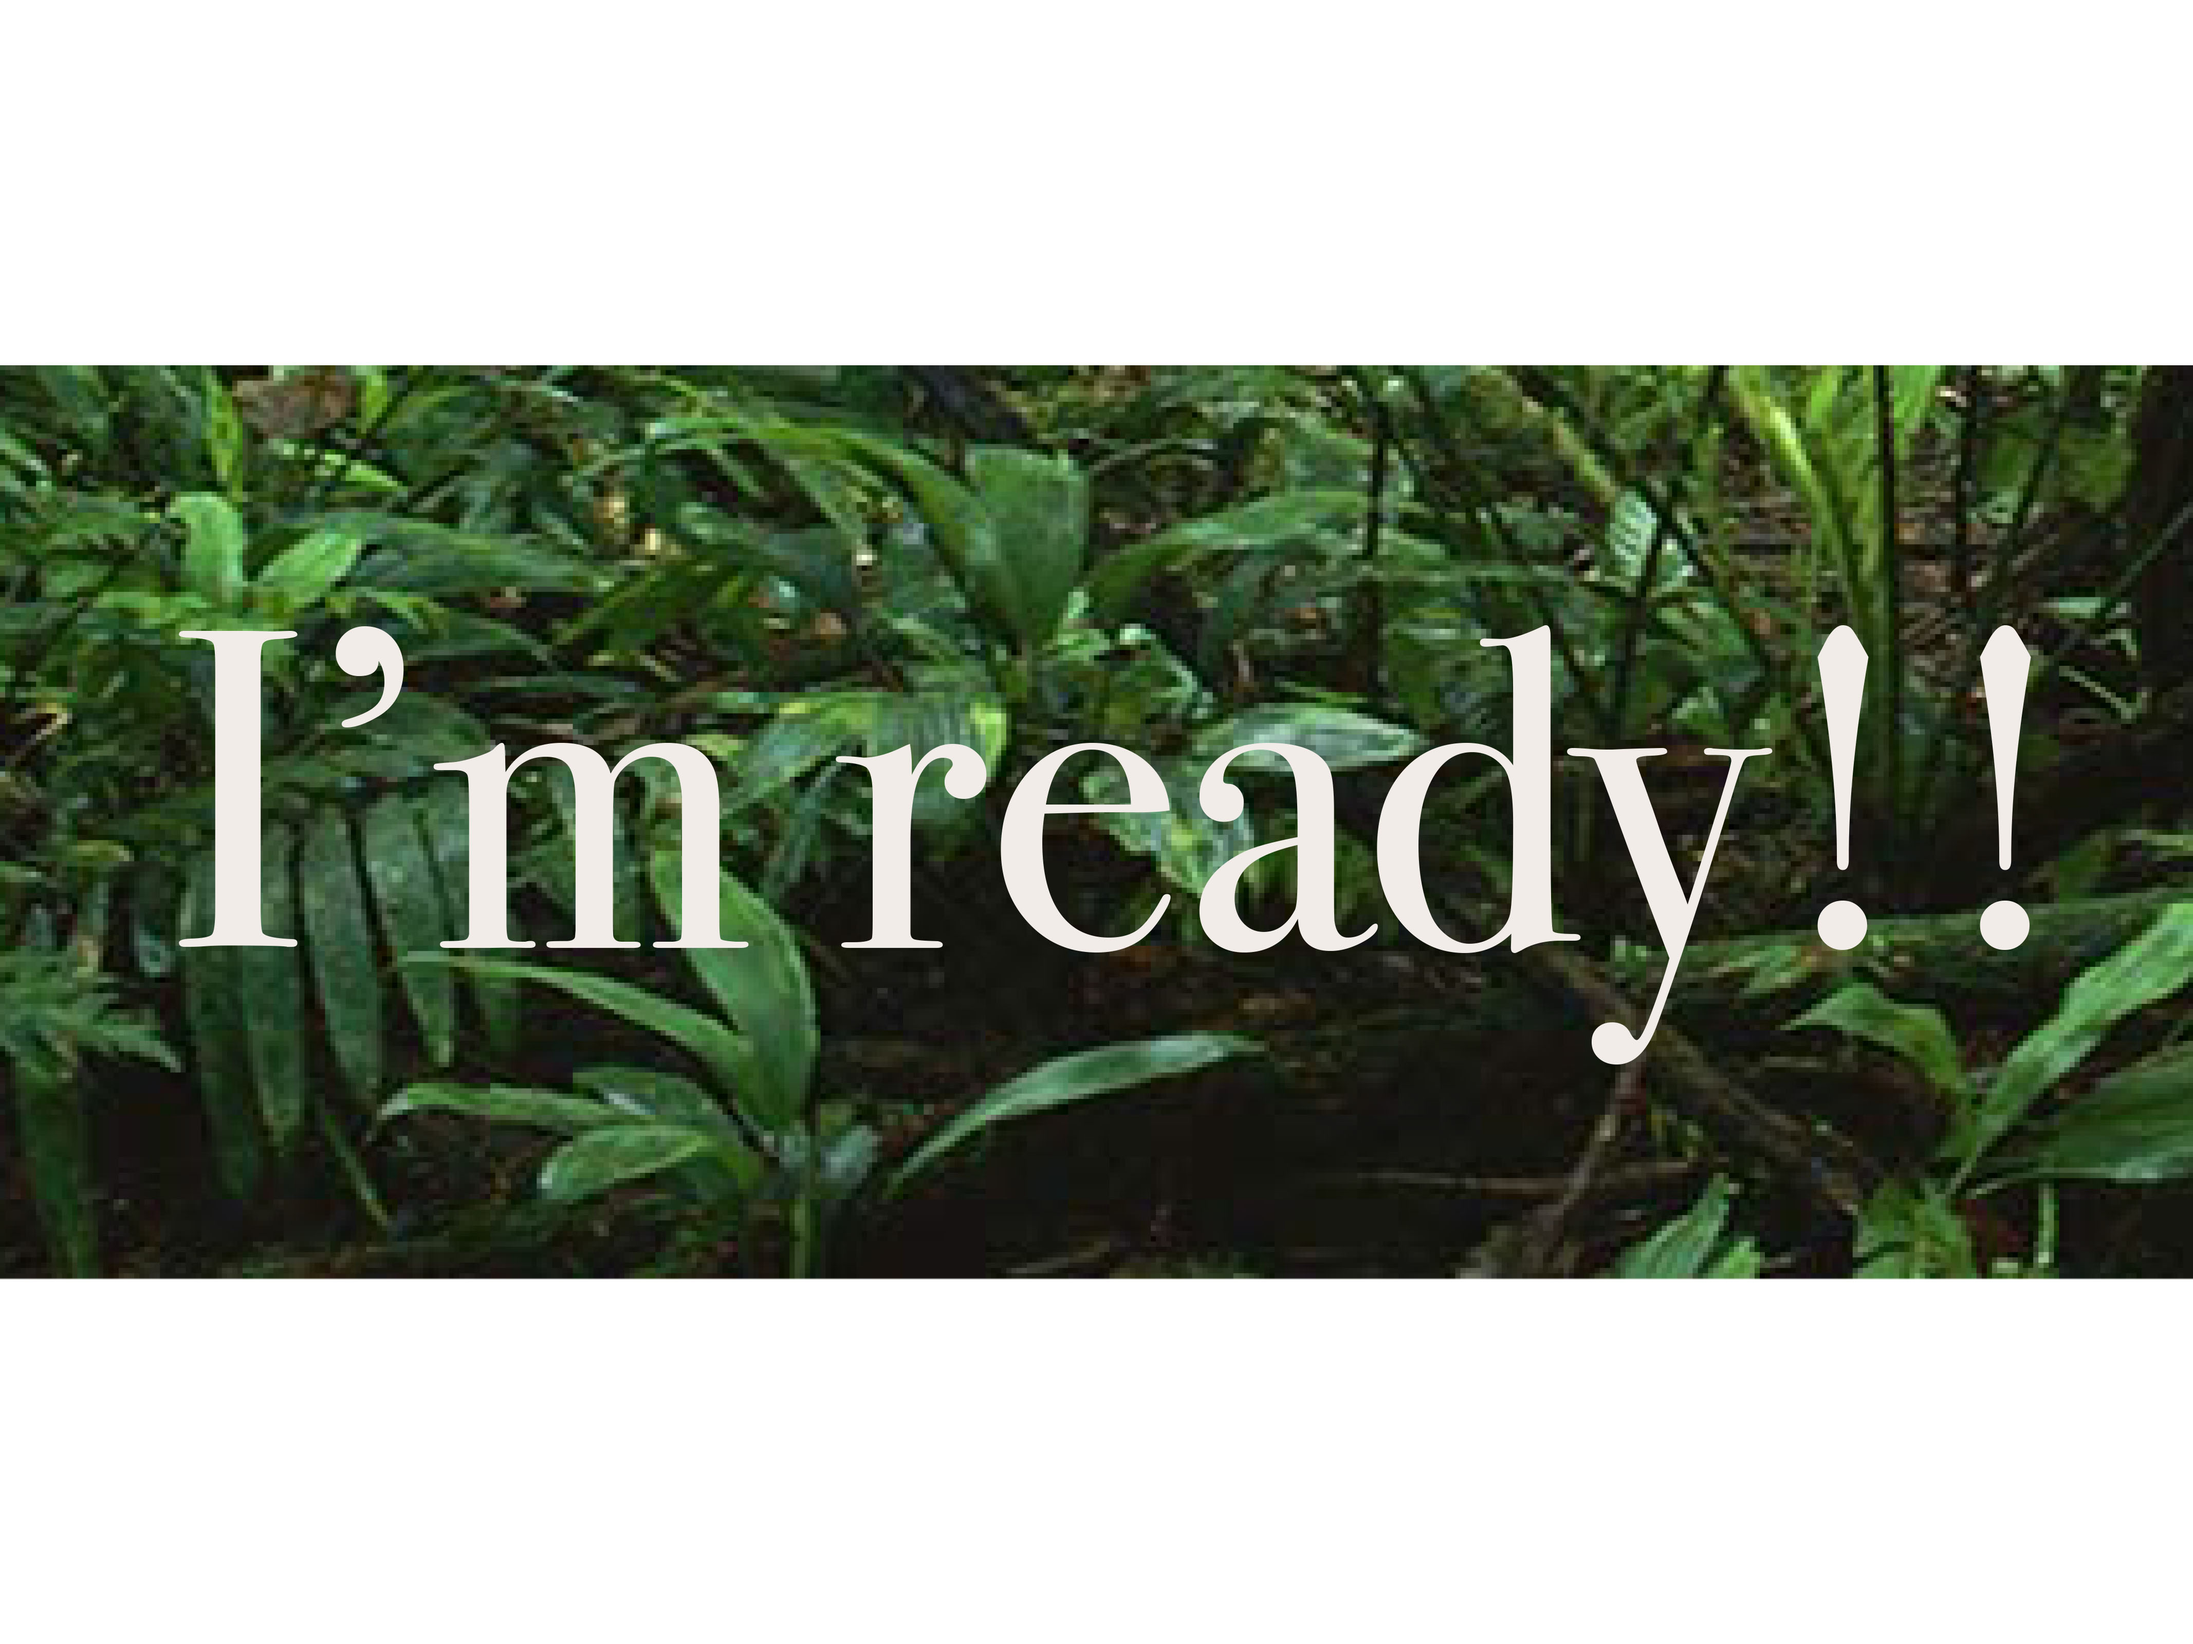
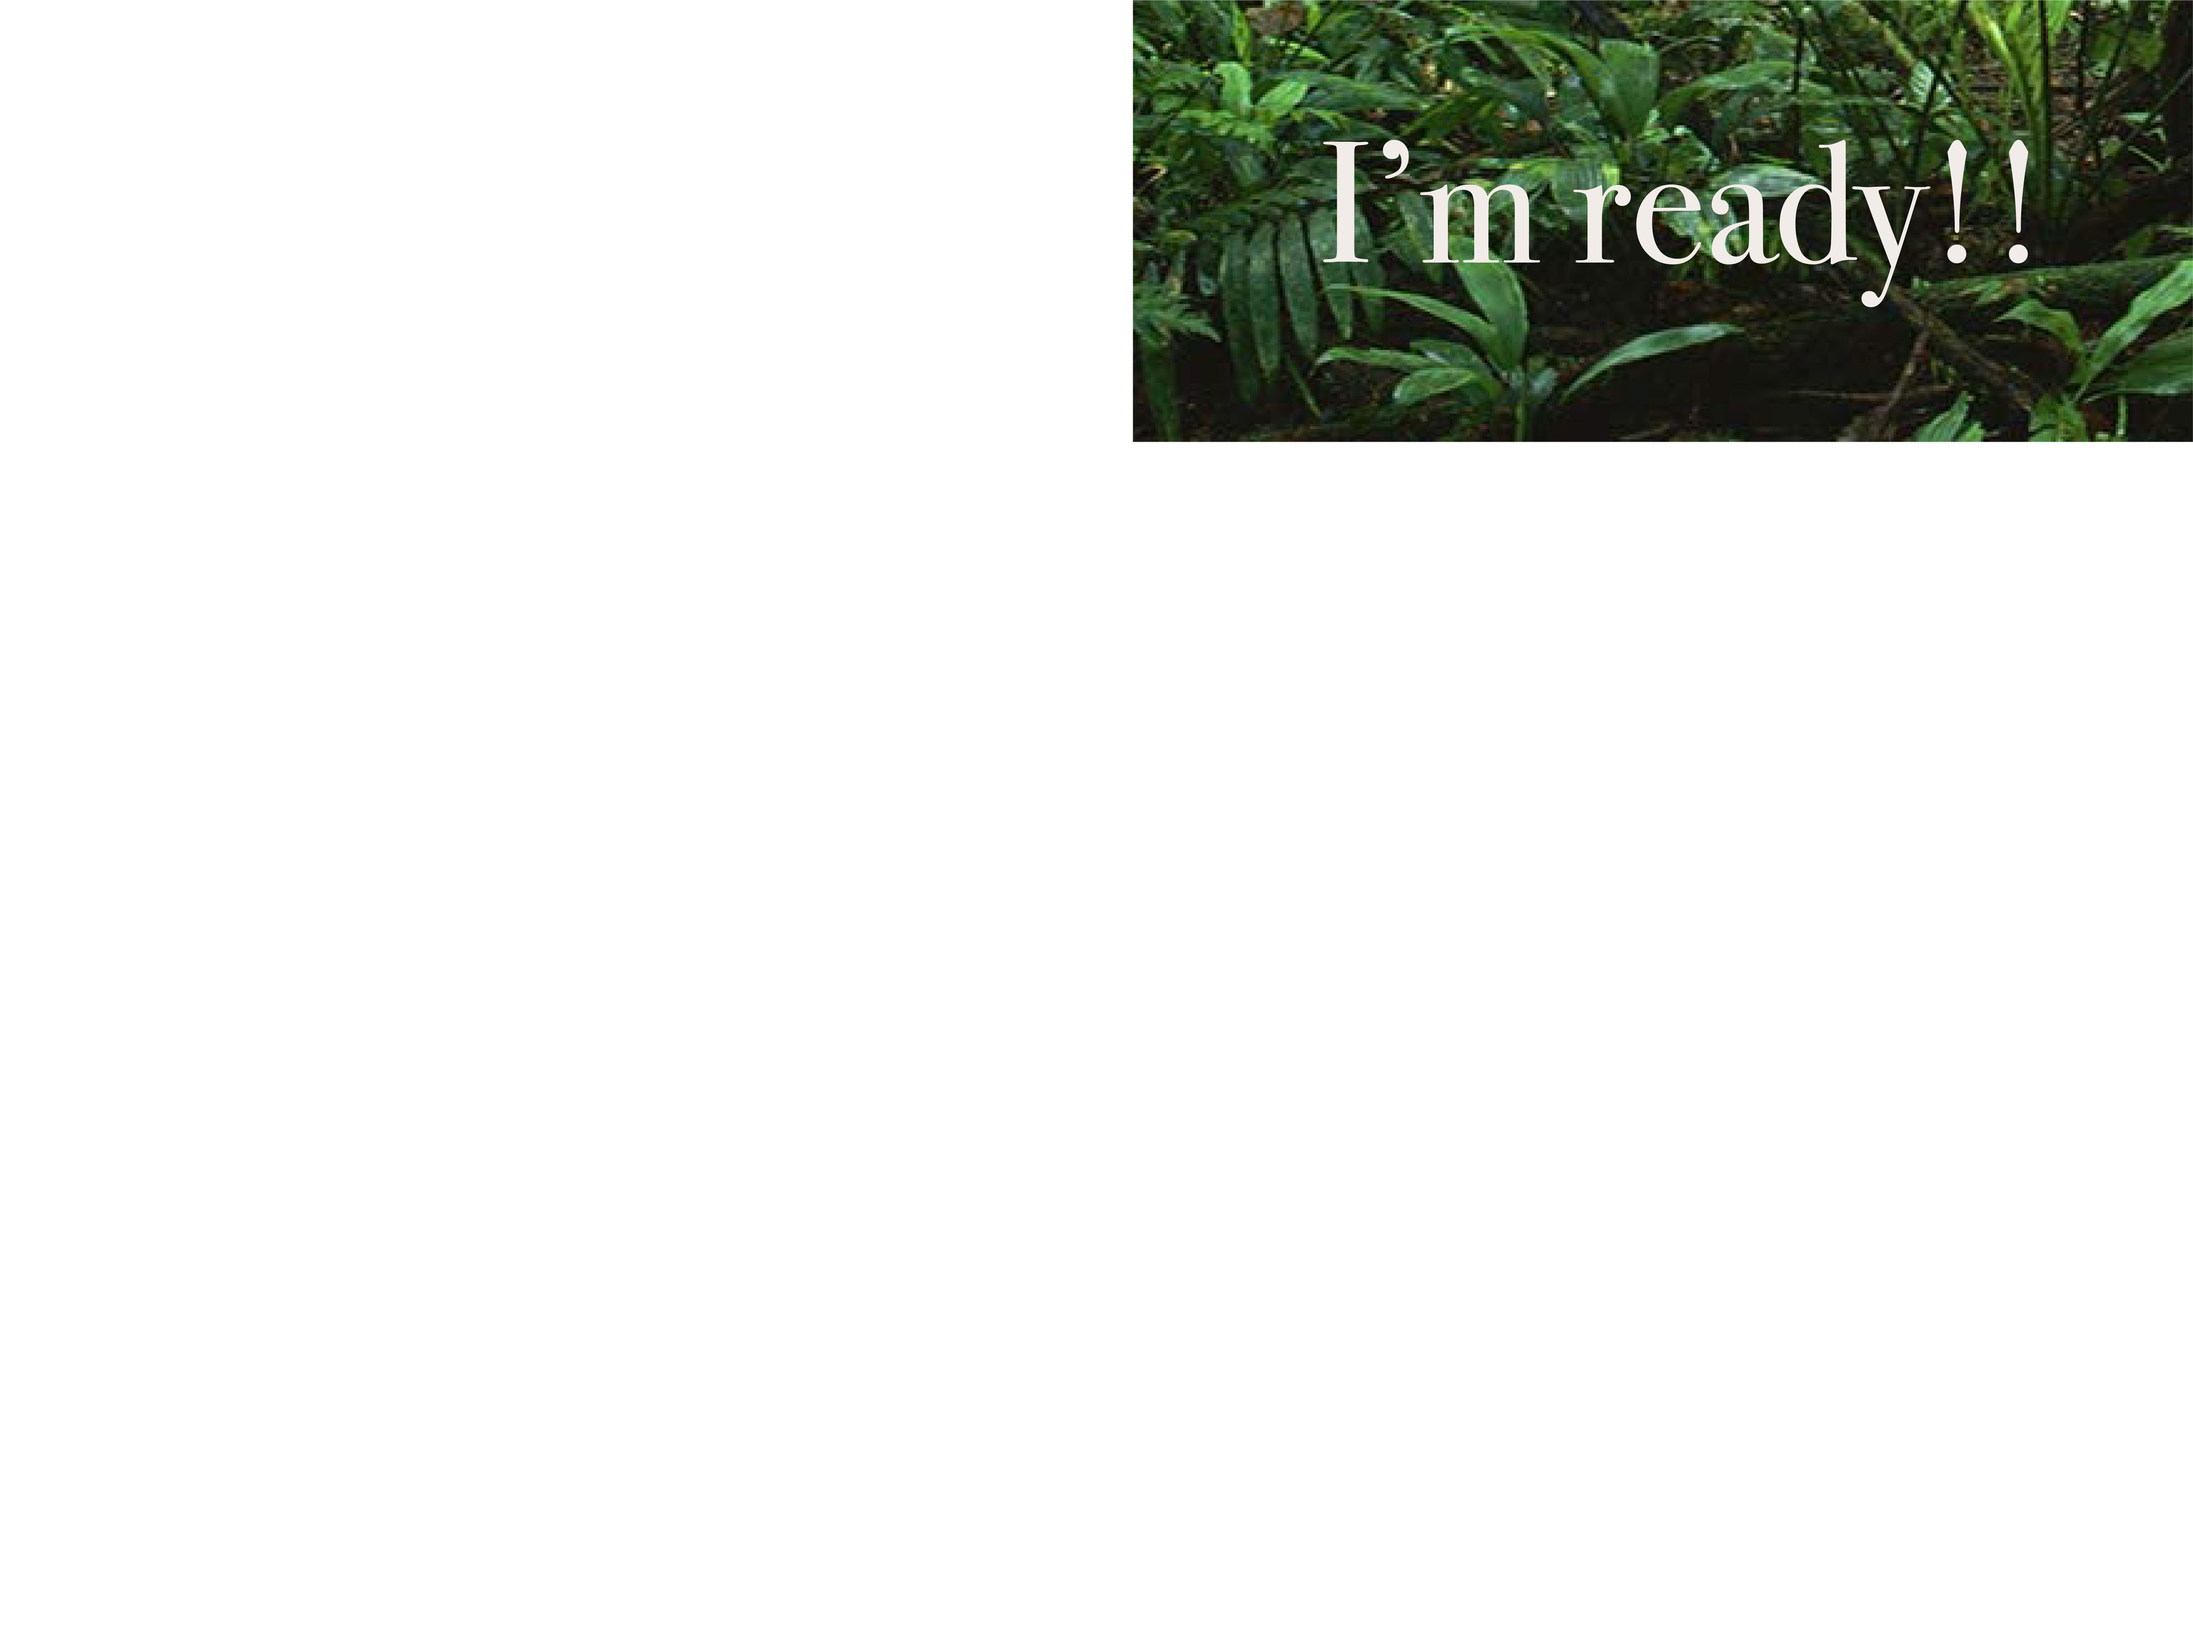
Add files via upload

diff --git a/treasuregame/p3.html b/treasuregame/p3.html
@@ -4,10 +4,10 @@
 		<title>Interactive Treasure Game</title>
 	</head>
 	<body>
-		<h1>
+		<center><h1>
 			"You have chosen wisely. This path leads to timeless youth and beauty". 
-			<h2><center>The rusted, corroded doors of that chamber are rinsed clean by a sheet of purifying water pouring from the relief above, revealing their pristine, metallic nature as they swing open. In the Hall of Promise, where the  painted murals on the walls show the timeless beauty of Mara's chosen ones as everyone around them ages, the walls reflecting with the light on the water. At the far end of the hall, a massive stone face of Mara, with flowering vines scaling the walls around it. The room appears illuminated with shimmering aqua blue light. Front-lit scrims along the walls are painted to show other true believers drinking mystic water, discarding their withered skin and emerging young and beautiful.</h2></center>
-		</h1>
+			<h3><center>The rusted, corroded doors of that chamber are rinsed clean by a sheet of purifying water pouring from the relief above, revealing their pristine, metallic nature as they swing open. In the Hall of Promise, where the  painted murals on the walls show the timeless beauty of Mara's chosen ones as everyone around them ages, the walls reflecting with the light on the water. At the far end of the hall, a massive stone face of Mara, with flowering vines scaling the walls around it. The room appears illuminated with shimmering aqua blue light. Front-lit scrims along the walls are painted to show other true believers drinking mystic water, discarding their withered skin and emerging young and beautiful.</h3></center>
+		</center></h1>
 		<center><img src="fountain.jpg"></center>
 		<h3>
 			<a href="p6.html">

diff --git a/treasuregame/p5.html b/treasuregame/p5.html
@@ -4,10 +4,10 @@
 		<title>Interactive Treasure Game</title>
 	</head>
 	<body>
-		<h1>
+		<center><h1>
 			"You seek the future. I will lift the curtain of time. It is your destiny"
-			<h2>The doors are sealed by an icyed web that clouds its carved reliefs. But upon Mara's announcement, the all-seeing eyes above glow, whisking away the icy wall as shooting stars illuminate the newly unlocked pathway as the doors. Once inside, the Hall of Promise lit by innumerable glowing stars and the temple's open roof reveals the endless night sky above, with a glowing, ethereal face of Mara at the far end of the hall. The room is illuminated with a dimly lit in purple and the ceiling above twinkles with optic stars. It tilts upward, directing your eyes away from the dark scrims, and towards the dazzling star field.</h2>
-		</h1>
+			<h3>The doors are sealed by an icyed web that clouds its carved reliefs. But upon Mara's announcement, the all-seeing eyes above glow, whisking away the icy wall as shooting stars illuminate the newly unlocked pathway as the doors. Once inside, the Hall of Promise lit by innumerable glowing stars and the temple's open roof reveals the endless night sky above, with a glowing, ethereal face of Mara at the far end of the hall. The room is illuminated with a dimly lit in purple and the ceiling above twinkles with optic stars. It tilts upward, directing your eyes away from the dark scrims, and towards the dazzling star field.</h3>
+		</center></h1>
 		<center><img src="observatory.jpg"></center>
 
 		<h3>

diff --git a/treasuregame/p4.html b/treasuregame/p4.html
@@ -4,10 +4,10 @@
 		<title>Interactive Treasure Game</title>
 	</head>
 	<body>
-		<h1>
+		<center><h1>
 			"You seek the treasure of Mara, glittering gold. It is yours."
-			<h2> The vault doors begin to unlock as gold coins begin to rain down from the relief above as the doors open. Inside the Hall of Promise, piles of gold, bronze statues, and priceless carvings fill vestibules on each side with a massive gold face of Mara at the far end of the hall. The room is illuminated with shimmering golden light where images of gold and other treasures are visible.</h2>
-		</h1>
+			<h3> The vault doors begin to unlock as gold coins begin to rain down from the relief above as the doors open. Inside the Hall of Promise, piles of gold, bronze statues, and priceless carvings fill vestibules on each side with a massive gold face of Mara at the far end of the hall. The room is illuminated with shimmering golden light where images of gold and other treasures are visible.</h3>
+		</center></h1>
 		<center><img src="goldrain.gif" width=500></center>
 		<center><img src="goldpit.jpg"></center>
 

diff --git a/treasuregame/index.html b/treasuregame/index.html
@@ -2,6 +2,7 @@
 <html>
 	<head>
 		<title>Interactive Treasure Game</title>
+		<link rel="stylesheet" href="style.css">
 	</head>
 	<body>
          <h1><center>You've discovered the missing pieces to the map leading to an ancient Benegalese temple. The temple, known as the Temple of the Forbidden Eye, is undergoing excavation for archaelogical research, and YOU are tasked with finding what lies beneath the temple deity's Mara's gifts. But, BEWARE! Don't look into the eyes of Mara or endure grave danger!</center></h1>
@@ -9,10 +10,16 @@
 		<br>
 		<br>
 		<h2><center>Are you brave enough to take on the task?</center></h2>
-		<h3>
-	    		<img src="noway.jpg" alt="noway" style="width:100%"><a href="p1.html"><img src="imready.jpg" alt="imready" style="width:100%">
-	    	</a>
-		</h3>
+        <div class="row">
+        	<div class="column">
+        		<img src="noway.jpg" width="200%;">
+        	</div>
+
+        	<div class="row">
+        	<div class="column">
+        		<a href="p1.html">
+        		<img src="imready.jpg" width="200%;">
+        	</div>
 	</body>
 </html>
 	

diff --git a/treasuregame/p13.html b/treasuregame/p13.html
@@ -2,12 +2,13 @@
 <html>
 	<head>
 		<title>Interactive Treasure Game</title>
+		<link rel="stylesheet" href="style.css">
 	</head>
 	<body>
 		<h1>
 			<center><img src="boulder.gif" width=1000></center>
-			<center>LOOK OUT! A massive boulder comes crashing down through the cave walls heading right towards you. Your team and Jones start to run in fear, holding onto the treasure for dear life. You need to make a decison and quick! Do you keep running or get into the transport vehicle?
-		</h1>
+			<center>LOOK OUT! </center></h1>
+				<center><h2>A massive boulder comes crashing down through the cave walls heading right towards you. Your team and Jones start to run in fear, holding onto the treasure for dear life. You need to make a decison and quick! Do you keep running or get into the transport vehicle?</center></h2>
 		<br>
 		<div style="display:flex">
 			<div style="flex:1;padding-right:5px;">

diff --git a/treasuregame/p12.html b/treasuregame/p12.html
@@ -6,8 +6,9 @@
 	<body>
 		<h1>
 			<center><img src="pickup.gif" width=1000></center>
-			<center>To your surprise as well as Indiana Jones himself, placing his bag onto the mantel actually worked! It looks like your dangerous adventure was worth it after all. Your team along with Jones start to exit the cave when the round of rocks falling and rumbling echoes through the walls. Something is 
+			<br>
+			<h2><center>To your surprise as well as Indiana Jones himself, placing his bag onto the mantel actually worked! It looks like your dangerous adventure was worth it after all. Your team along with Jones start to exit the cave when the sound of rocks falling and rumbling echoes through the walls. Something is 
             <a href="p13.html">
-			coming...</center>
+			coming...</h2></center>
 		</h1>
 		

diff --git a/treasuregame/p11.html b/treasuregame/p11.html
@@ -4,9 +4,9 @@
 		<title>Interactive Treasure Game</title>
 	</head>
 	<body>
-		<h1>
+		<h2>
 			<center>Your transport vehicle's headlights start to flicker, illuminating just enough for you and your excavation team to see what is surrounding you. You exit the vehicle and enter an unmarked area that is not shown on your map. There you see, the true treasure of Mara, a gold encarved statue. Suddenly, out of nowhere... Indiana Jones appears from a rope, landing directly between you and the treasure. He explains that the treasure is very sacred, however one must not take unless there is something to replace its weight, or you all will be in more danger. What do you do?</center>
-		</h1>
+		</h2>
 		<center><img src="treasure.gif" width=1000></center> 
 		<br>
 		<br>

diff --git a/treasuregame/p14.html b/treasuregame/p14.html
@@ -8,8 +8,11 @@
 			<center><img src="happens.gif" width=600></center>
 			<center>Great choice! Your team and Jones hop into the transport vehicle just in time to escape the wrath of the giant boulder. You let out a sigh of relief knowing everyone is safe, especially the treasure Jones managed to hold onto. As Jones always says after his daring missions, "Happens to me all the time!"</center>
 		</h1>
-		<h1>
+		<h2>
 			<center>That was one CRAZY mission, and you enjoyed all the thrills and obstacles it included, but it's time to exit the temple, treasure in hand!</center>
+			<center><h3>
+				Click to see your treasure!
+			</center></h3>
 			<a href="p16.html">
 			<center><img src="escape.gif" width=700></center>
-		</h1>
+		</h2>

diff --git a/treasuregame/p9.html b/treasuregame/p9.html
@@ -6,6 +6,9 @@
 	<body>
 		<h1>
 			<center>You and your team have now entered the Gates of Doom! Your transport vehicle zooms through the temple at a high rate of speed. One of your team members nearly falls out as you make your way through the dark, snake and bug filled cave. There is a sliver of light you can see in the distance, and you hope it's the outside world. Or, so you think...</center>
+			<center><h4>
+				CLICK IF YOU DARE!!!
+			</center></h4>
 			<a href="p10.html">
 			<center><img src="raiders.gif" width=1170></center>
 		</h1>

diff --git a/treasuregame/p10.html b/treasuregame/p10.html
@@ -4,9 +4,9 @@
 		<title>Interactive Treasure Game</title>
 	</head>
 	<body>
-		<h1>
+		<h2>
 			<center>Your transport vehicle stops abruptly as you look ahead to a rickety rope bridge that lies above a giant pool of lava. Your driver slowly makes his way across the bridge when all of a sudden, Mara appears shooting beams of lava at the bridge. Your transport vehicle accelerates in speed to avoid any hits from Mara making a sharp right turn out of danger!</center>
-		</h1>
+		</h2>
 		<center><img src="bridge.jpg"></center>
 
 		<h2>

diff --git a/treasuregame/p1.html b/treasuregame/p1.html
@@ -9,5 +9,8 @@
     <img src="car.gif" style="float:right; width: 30%; margin-right: 1%; margin-bottom: 0.5em;">
     <p style="clear:both;">
     <br>
+    <center><h3>
+        Click here to enter the temple!
+    </center></h3>
     <a href="p2.html">
     	<img src="joneslooking.gif" style = "display: block; margin-left: auto; margin-right: auto;" />

diff --git a/treasuregame/p6.html b/treasuregame/p6.html
@@ -4,7 +4,8 @@
 		<title>Interactive Treasure Game</title>
 	</head>
 	<body>
-		<h1>
+		<center><h1>
+		CLICK!!! CLICK!!!</center></h1>
 			<a href="p9.html">
 			<center><img src="mara1.gif" width=1170></center>
 		</h1>
